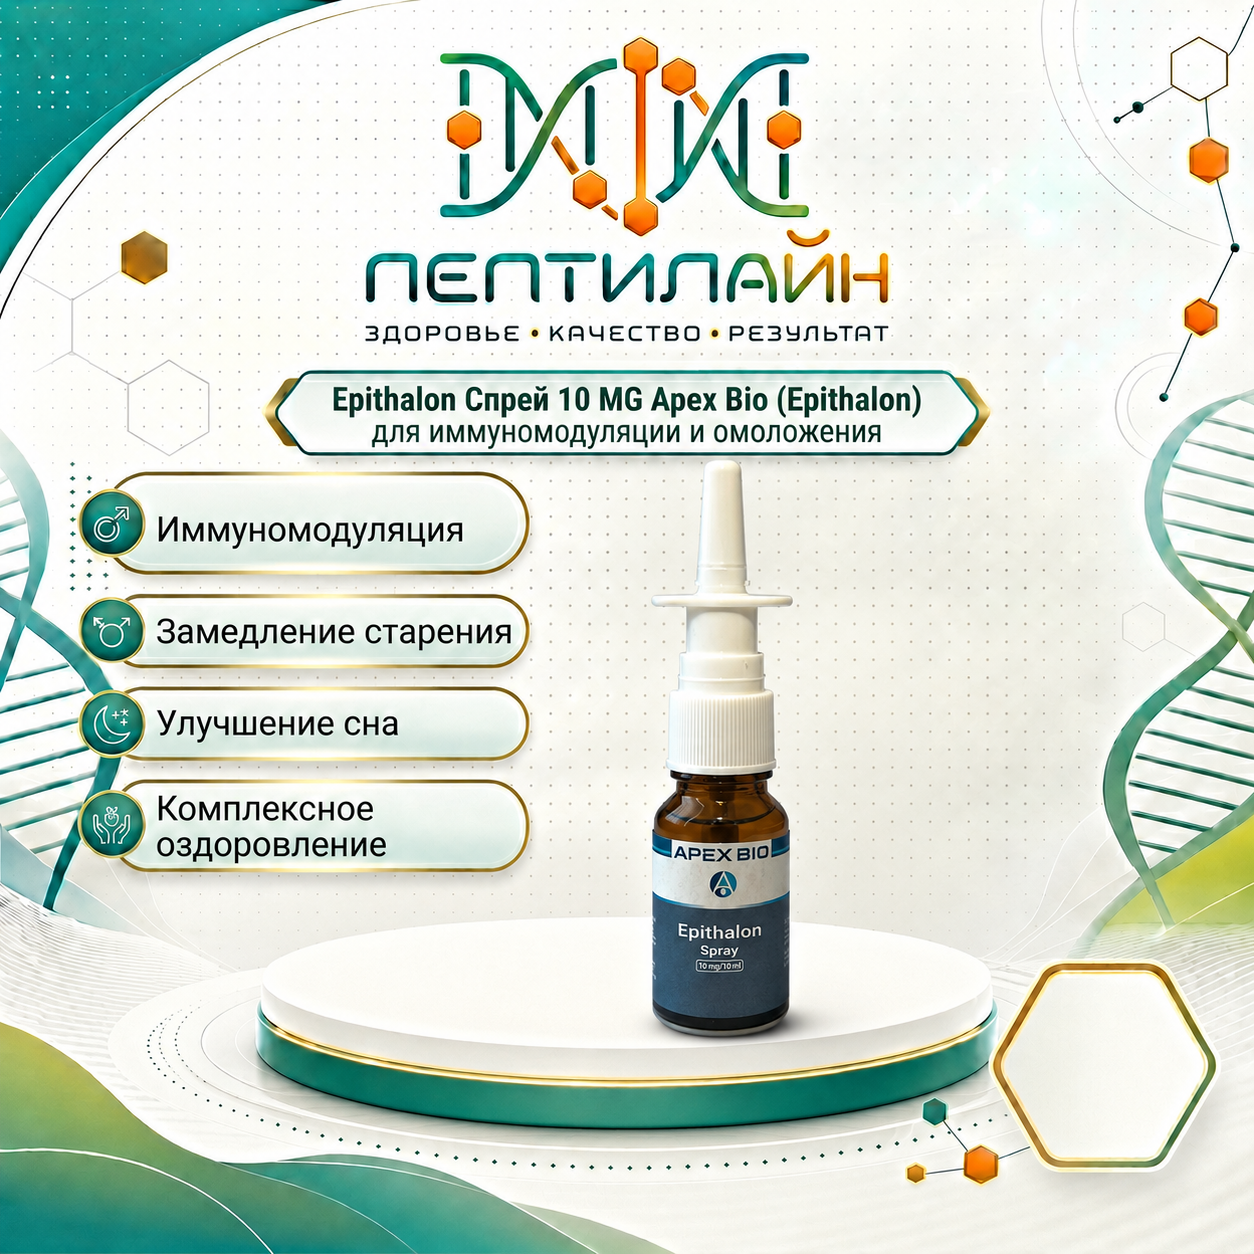
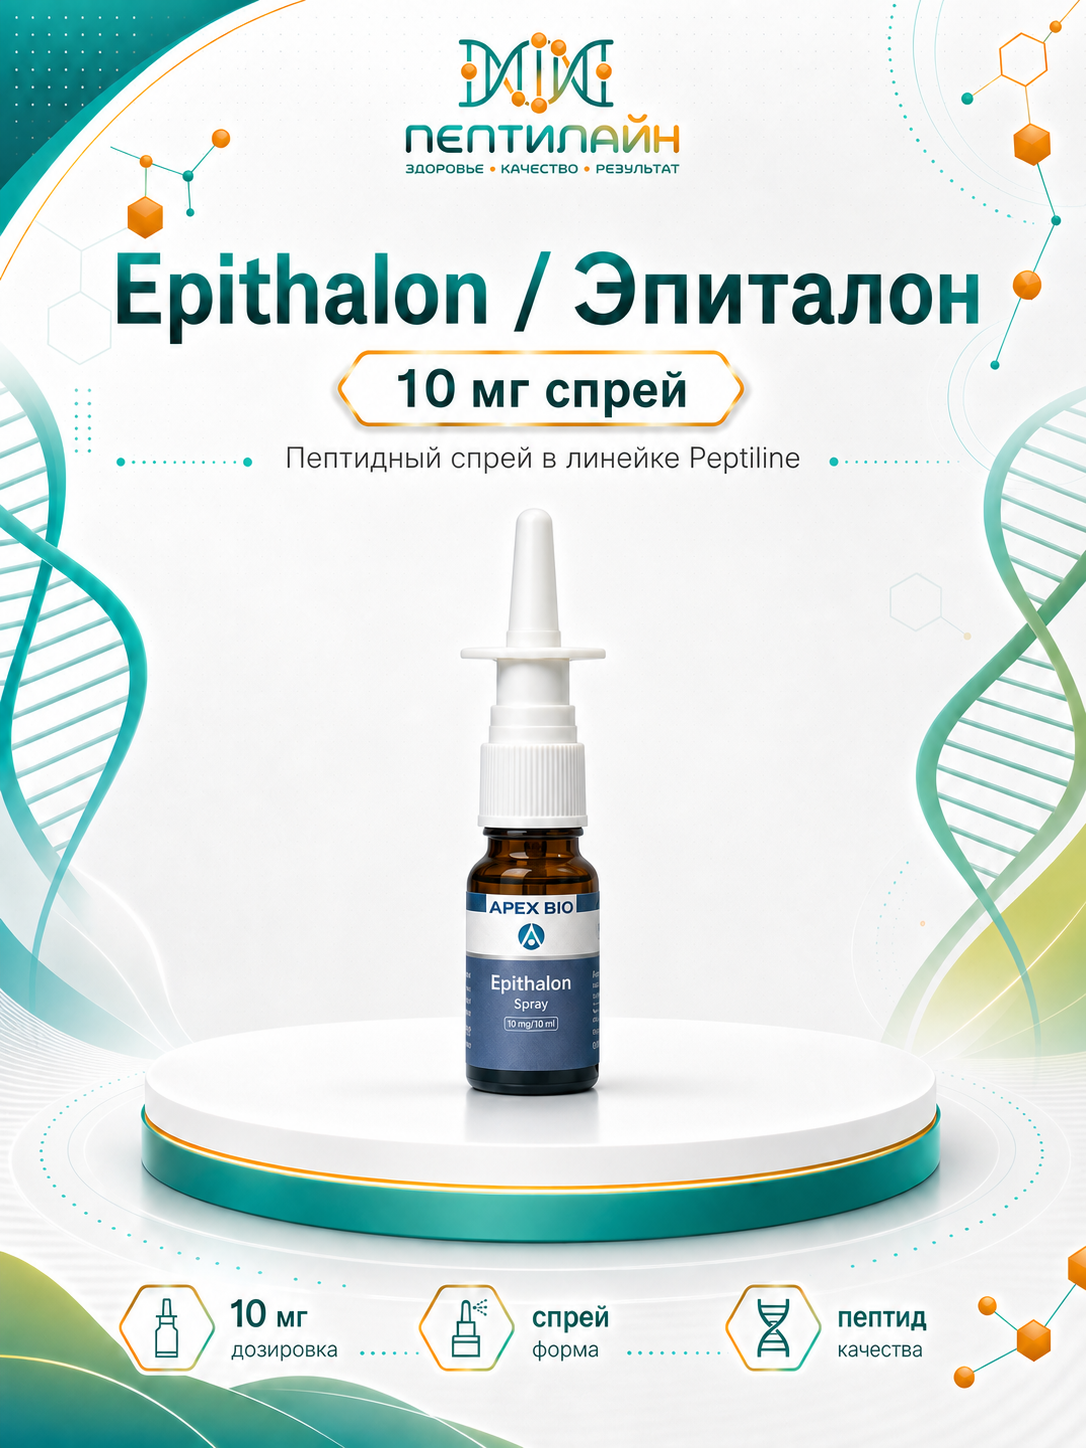
Update Epithalon gallery cards

diff --git a/README.md b/README.md
@@ -8,6 +8,11 @@ Files:
 - `images/03-adfafaffa-primary.png`
 - `images/04-20-primary.png`
 - `images/05-dsafvsaf1-primary.png`
+- `images/05-dsafvsaf1-02-composition-origin.png`
+- `images/05-dsafvsaf1-03-form-packaging.png`
+- `images/05-dsafvsaf1-04-storage-shelf-life.png`
+- `images/05-dsafvsaf1-05-neutral-positioning.png`
 
 Purpose:
 - stable public raw URLs for Ozon Seller API image import.
+- `EPITHALON-10MG` now uses a 5-card gallery; the first file remains the primary image for backward compatibility.